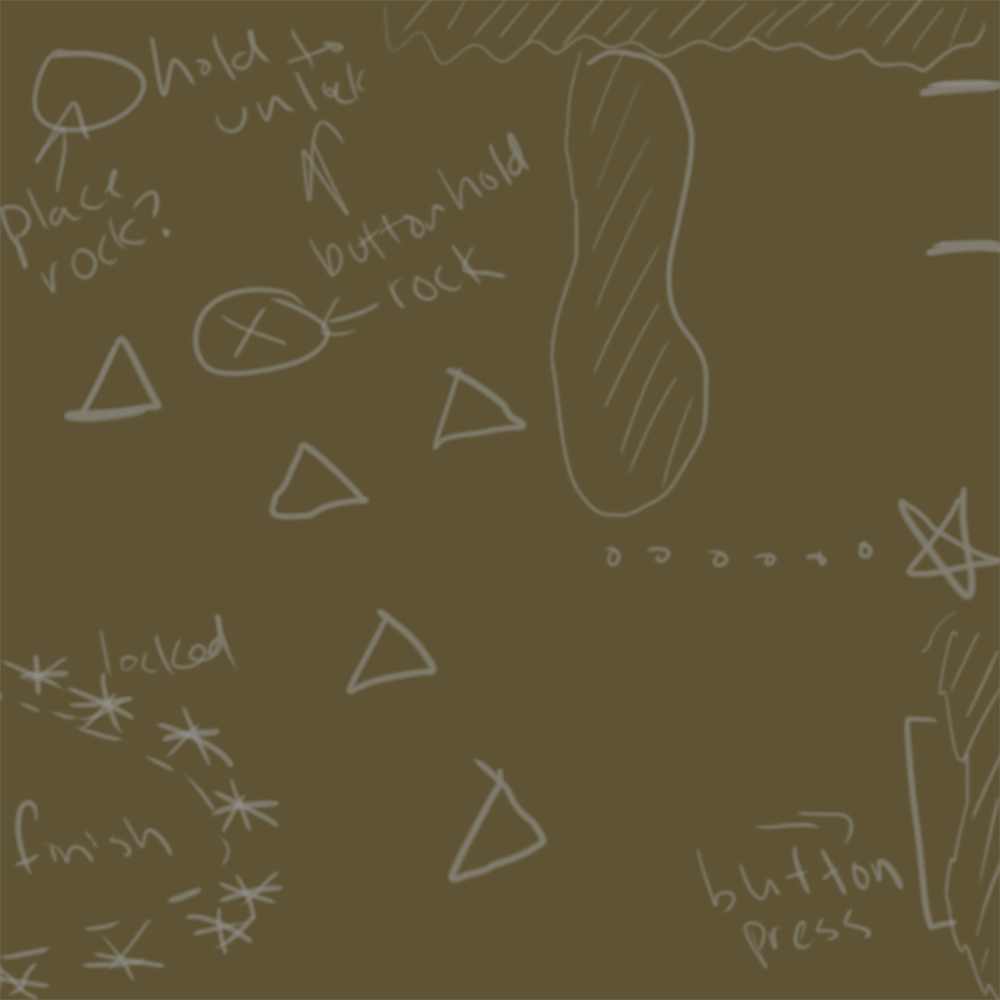
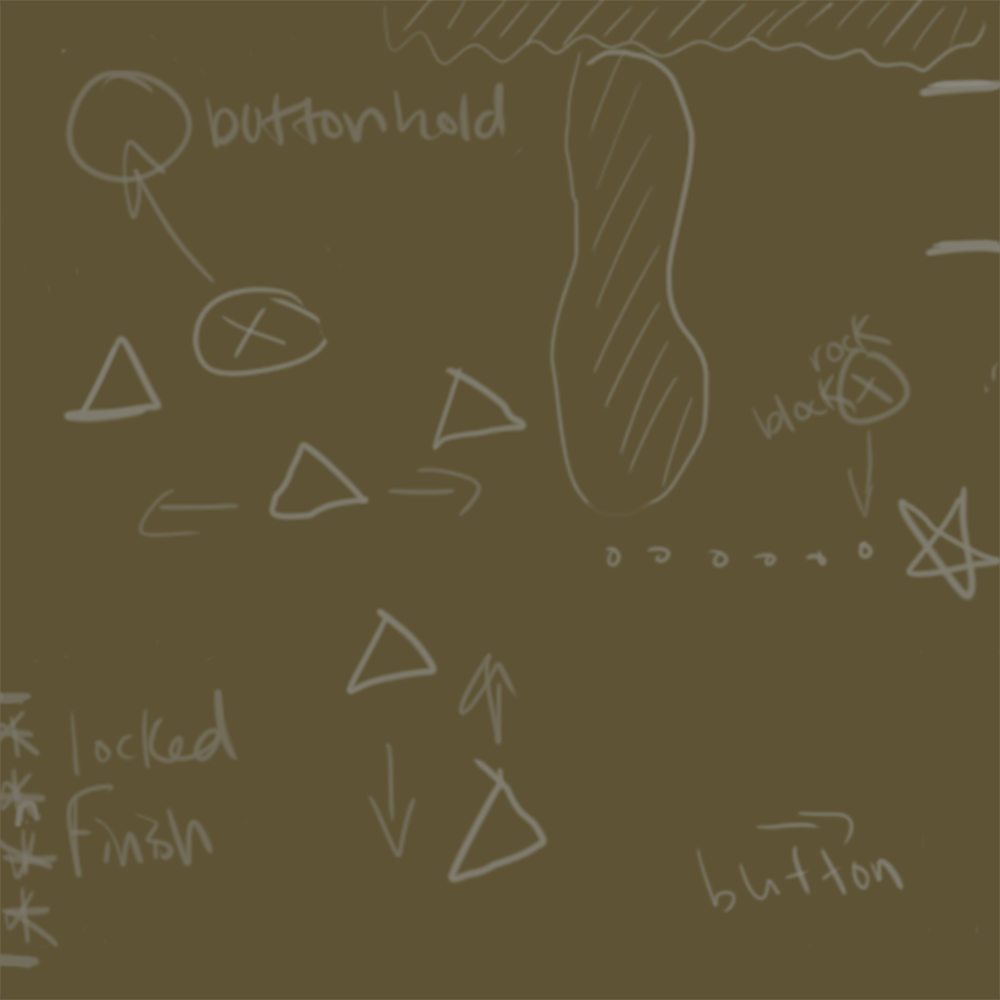
square 3 and 4 walls are now placed.

diff --git a/src/scenes/Level1Square4.js b/src/scenes/Level1Square4.js
@@ -15,13 +15,29 @@ class Level1Square4 extends Phaser.Scene {
         //load in background
         this.Background = this.add.tileSprite(0,0, 1000, 1000, 'background4').setOrigin(0,0);
 
+        //Walls
+         //Top
+         this.fourthTopWall = this.add.tileSprite(0,0,1000,64, 'topWall4').setOrigin(0,0);
+         //Bot
+         this.fourthBotWall = this.add.tileSprite(240,934, 768, 64, 'botWall4').setOrigin(0,0);
+         //Left
+         this.fourthLeftWall = this.add.tileSprite(0,63, 64, 576,'leftWall4').setOrigin(0,0);
+         //right
+         this.fourthRightWall = this.add.tileSprite(969, 250, 32, 704, 'rightWall4').setOrigin(0,0);
+         //mid
+         this.fourthMidWall = this.add.tileSprite(545,0, 192, 510, 'midWall4').setOrigin(0,0); 
+         //sidemid
+         this.sideMidWall = this.add.tileSprite(779,600, 192, 128, 'sideMidWall4').setOrigin(0,0);
+
+
         //load in button
         this.bluebutton = new BlueButton(this, 919, 770, 'blue', 0).setOrigin(0,0);
         var bluedown = false;
 
         this.redbutton = new RedButton(this, 64, 65, 'red', 0).setOrigin(0,0);
         var reddown = false;
-
+        
+        this.rockEntrance = new Rock(this, 849, 360, 'rock', 0).setOrigin(0,0);
         this.rock = new Rock(this, 234, 310, 'rock', 0).setOrigin(0,0);
 
         //load in explorer
@@ -47,6 +63,7 @@ class Level1Square4 extends Phaser.Scene {
         this.bluebutton.update();
         this.redbutton.update();
         this.rock.update();
+        this.rockEntrance.update();
 
         if(this.game.settings.gameover == true){
             if(this.explorer.x < 2){

diff --git a/src/scenes/Preload.js b/src/scenes/Preload.js
@@ -26,9 +26,21 @@ class Preload extends Phaser.Scene{
 
         // Level 1 Square 3
         this.load.image('background3', './assets/img/thirdBackground.png');
+        this.load.image('botWall3', './assets/img/thirdAreaWalls/thirdAreaWallBot.png');
+        this.load.image('topWall3', './assets/img/thirdAreaWalls/thirdAreaWallTop.png');
+        this.load.image('rightWall3', './assets/img/thirdAreaWalls/thirdAreaWallRight.png');
+        this.load.image('midWall3', './assets/img/thirdAreaWalls/thirdAreaWallMiddle.png');
+        this.load.image('leftWall3', './assets/img/thirdAreaWalls/thirdAreaWallLeft.png');
+        
 
         // Level 1 Square 4
         this.load.image('background4', './assets/img/fourthBackground.png');
+        this.load.image('botWall4', './assets/img/fourthAreaWalls/area4WallBot.png');
+        this.load.image('topWall4', './assets/img/fourthAreaWalls/area4WallsTop.png');
+        this.load.image('leftWall4', './assets/img/fourthAreaWalls/area4WallLeft.png');
+        this.load.image('rightWall4', './assets/img/fourthAreaWalls/area4WallsRight.png');
+        this.load.image('midWall4', './assets/img/fourthAreaWalls/area4WallMid.png');
+        this.load.image('sideMidWall4', './assets/img/fourthAreaWalls/area4WallsideMid.png');
 
         // Sprites
         this.load.image('playersprite', './assets/img/characterSpritesmall.png');

diff --git a/src/scenes/Level1Square3.js b/src/scenes/Level1Square3.js
@@ -18,6 +18,18 @@ class Level1Square3 extends Phaser.Scene {
         //load in explorer
         this.explorer = new Player(this, game.settings.x, game.settings.y, 'playersprite', 0).setOrigin(0,0);
 
+        //Walls
+         //Top
+         this.thirdTopWall = this.add.tileSprite(0,0,960,64, 'topWall3').setOrigin(0,0);
+         //Bot
+         this.thirdBotWall = this.add.tileSprite(0,934, 576, 64, 'botWall3').setOrigin(0,0);
+         //Left
+         this.thirdLeftWall = this.add.tileSprite(1.25,240, 64, 704,'leftWall3').setOrigin(0,0);
+         //right
+         this.thirdRightWall = this.add.tileSprite(934, 0, 64, 1000, 'rightWall3').setOrigin(0,0);
+         //mid
+         this.thirdMidWall = this.add.tileSprite(545,130, 320, 320, 'midWall3').setOrigin(0,0); 
+
         //load in key
         if(game.settings.key == false){
         this.key = new Key(this, 39, 945, 'keysprite', 0).setOrigin(0,0);
